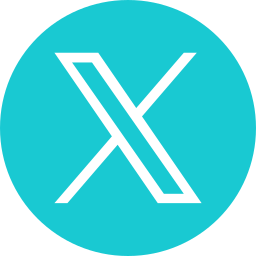
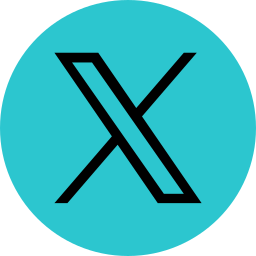
footer updates

Changed region(s): [[0.2188, 0.1875, 0.7812, 0.8125]]

diff --git a/leaderboard.css b/leaderboard.css
@@ -244,14 +244,12 @@ body {
 }
 
 /* footer */
-/* Footer base */
 .site-footer{
-  background: #07161C; /* deep teal-black */
+  background: #07161C; 
   color: #9fdbe0;
   border-top: 1px solid rgba(0,255,255,0.07);
 }
 
-/* Thin glowing line near the top */
 .site-footer .neon-divider{
   height: 8px;
   background:
@@ -265,7 +263,8 @@ body {
   font-family: 'Rajdhani', sans-serif;
   letter-spacing: 2px;
   color: #63d7de;
-  margin-bottom: .5rem;
+  margin-bottom: .8rem;
+  font-size: 1.2em;
 }
 
 /* Links list */
@@ -274,6 +273,7 @@ body {
   padding: 0;
   margin: 0;
 }
+
 .footer-links li + li{ margin-top: .3rem; }
 .footer-links a{
   text-decoration: none;
@@ -287,20 +287,22 @@ body {
   text-shadow: 0 0 8px rgba(0,255,255,0.5);
 }
 
-/* Center quote + copyright */
+/* Quote + copyright */
 .footer-quote{
   color: #cfe6e8;
   font-family: 'Rajdhani', sans-serif;
   font-size: clamp(.95rem, 1.8vw, 1.15rem);
   margin: 0 0 .6rem 0;
 }
+
 .footer-copy{
+  font-family: 'Rajdhani', sans-serif;
   color: #6fb5ba;
   font-size: .9rem;
   margin: 0;
 }
 
-/* Social buttons (round, cyan outline) */
+/* Social buttons */
 .footer-socials .social-btn{
   display: inline-flex;
   align-items: center;
@@ -314,6 +316,7 @@ body {
   background: rgba(0,255,255,0.06);
   transition: transform .18s ease, box-shadow .18s ease, background .18s ease, color .18s ease;
 }
+
 .footer-socials .social-btn:hover{
   transform: translateY(-2px);
   box-shadow: 0 0 12px rgba(0,255,255,.45);
@@ -321,7 +324,7 @@ body {
   color: #7ee9ef;
 }
 
-/* Spacing tweaks for small screens */
+/* for small screens */
 @media (max-width: 768px){
   .footer-heading{ margin-top: .5rem; }
   .footer-socials{ text-align: center; }
@@ -331,30 +334,34 @@ body {
 .footer-socials {
   display: flex;
   justify-content: center; /* center on mobile */
-  gap: 10px; /* nice spacing */
+  gap: 10px; 
 }
 
-/* Round neon icon buttons */
-.footer-socials .social-img-btn {
-  display: flex;
-  align-items: center;
-  justify-content: center;
-  width: 32px;   /* smaller size */
-  height: 32px;
-  transition: 0.2s ease;
-  overflow: hidden;
-}
+
 
 /* Icon images */
 .footer-socials .social-img-btn img {
   width: 32px;   /* scale icon inside */
   height: 32px;
   object-fit: contain;
-  filter: brightness(0) saturate(100%) invert(89%) sepia(23%) saturate(1877%) hue-rotate(148deg) brightness(95%) contrast(91%);
 }
 
 /* Hover glow effect */
 .footer-socials .social-img-btn:hover {
   transform: translateY(-2px);
+}
+
+/* default: center on mobile */
+.footer-socials {
+  display: flex;
+  justify-content: center;
+  gap: 12px;
+}
+
+/* desktop: align to the right */
+@media (min-width: 768px) {
+  .footer-socials {
+    justify-content: flex-end;
+  }
 }
 

diff --git a/leaderboard.html b/leaderboard.html
@@ -27,9 +27,9 @@
     <div class="collapse navbar-collapse" id="navbarNav">
       <ul class="navbar-nav me-auto">
         <li class="nav-item"><a class="nav-link" href="index.html">HOME</a></li>
-        <li class="nav-item"><a class="nav-link" href="#">MEDIA</a></li>
-        <li class="nav-item"><a class="nav-link" href="#">LEADERBOARD</a></li>
-        <li class="nav-item"><a class="nav-link" href="#">CONTACT</a></li>
+        <li class="nav-item"><a class="nav-link" href="media.html">MEDIA</a></li>
+        <li class="nav-item"><a class="nav-link" href="leaderboard.html">LEADERBOARD</a></li>
+        <li class="nav-item"><a class="nav-link" href="contact.html">CONTACT</a></li>
       </ul>
 
       <div class="d-flex">
@@ -157,6 +157,7 @@
   </section>
   <br>
 
+  <!-- Footer -->
   <footer class="site-footer mt-5">
     <div class="neon-divider"></div>
 
@@ -166,17 +167,17 @@
         <div class="col-12 col-md-4">
           <h6 class="footer-heading">QUICK LINKS</h6>
           <ul class="footer-links">
-            <li><a href="#about">ABOUT</a></li>
-            <li><a href="#media">MEDIA</a></li>
-            <li><a href="#leaderboard">LEADERBOARD</a></li>
-            <li><a href="#contact">CONTACT</a></li>
+            <li><a href="index.html">HOME</a></li>
+            <li><a href="media.html">MEDIA</a></li>
+            <li><a href="leaderboard.html">LEADERBOARD</a></li>
+            <li><a href="contact.html">CONTACT</a></li>
           </ul>
         </div>
 
         <!-- Center: Quote + copyright -->
         <div class="col-12 col-md-4 text-center">
           <p class="footer-quote">“In the silence, something awakens…”</p>
-          <p class="footer-copy">2025 LostStation. All Rights Reserved.</p>
+          <p class="footer-copy">2025 LostOrbit. All Rights Reserved.</p>
         </div>
 
         <!-- Right: Socials -->
